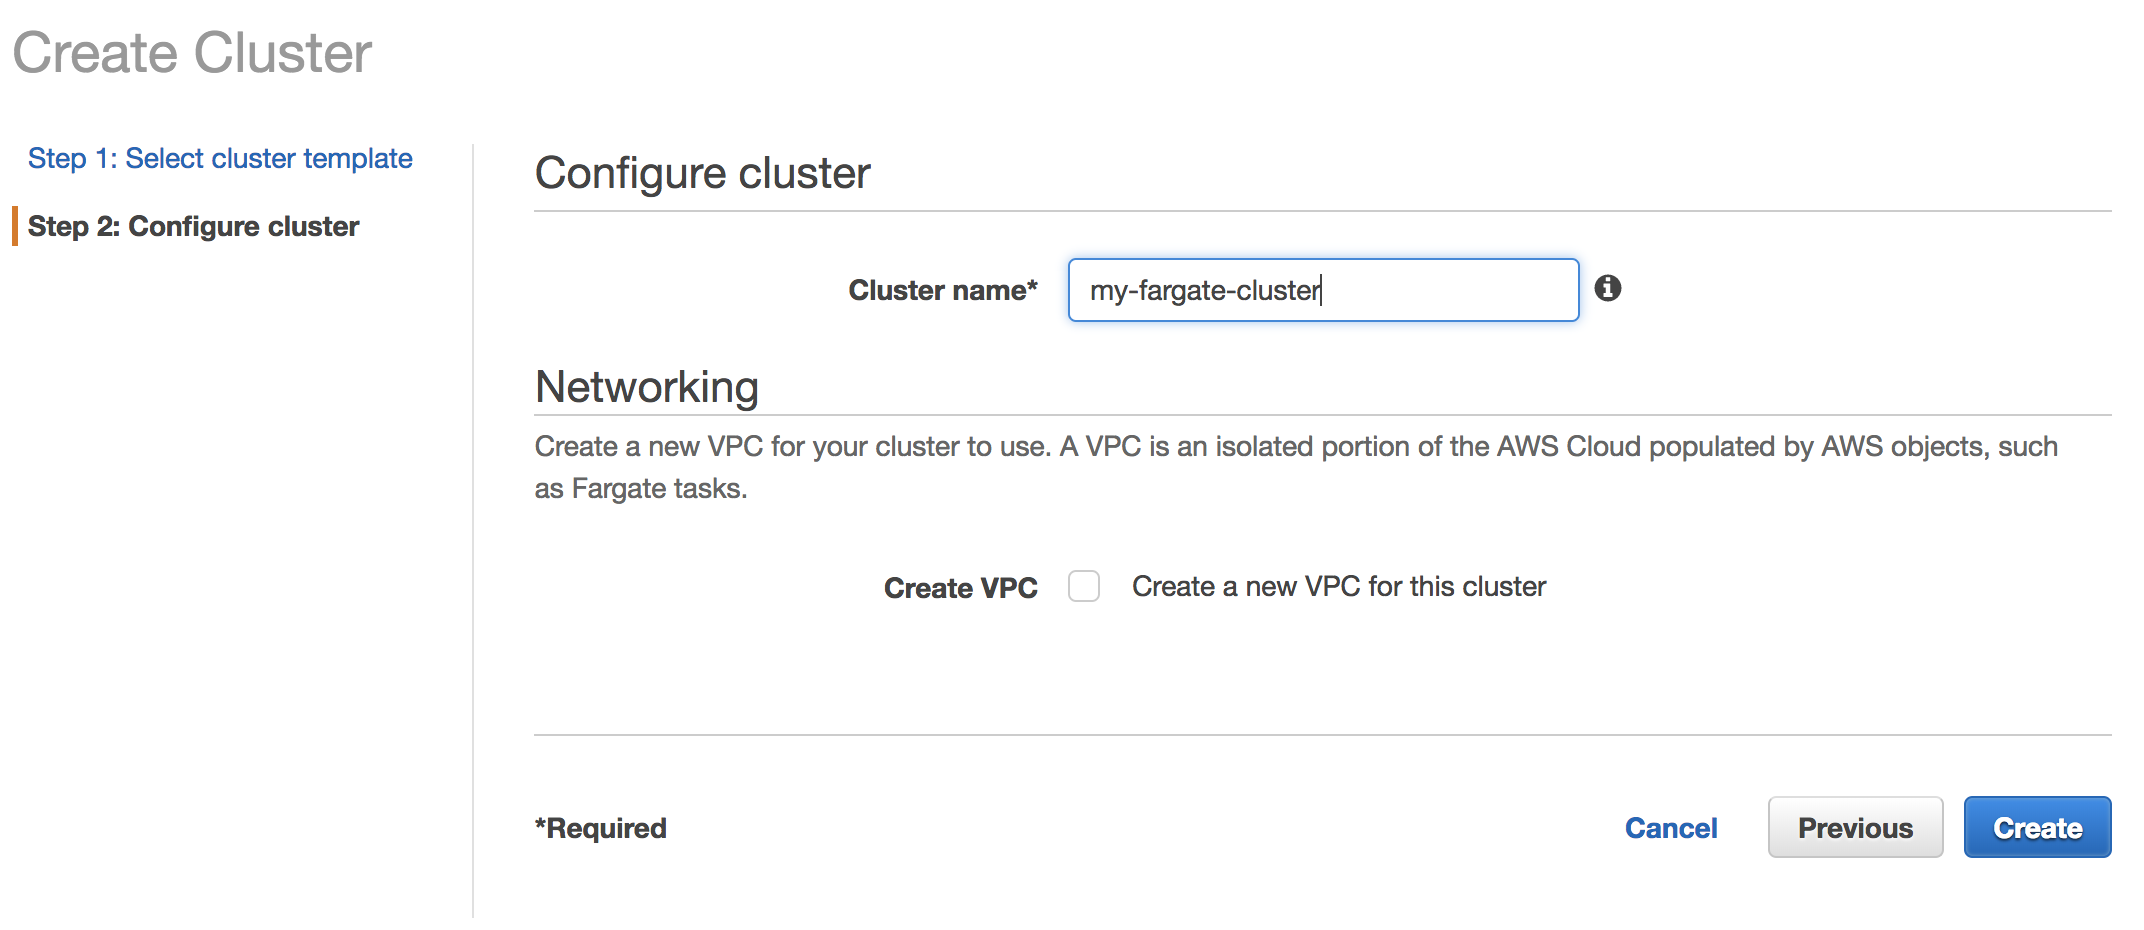
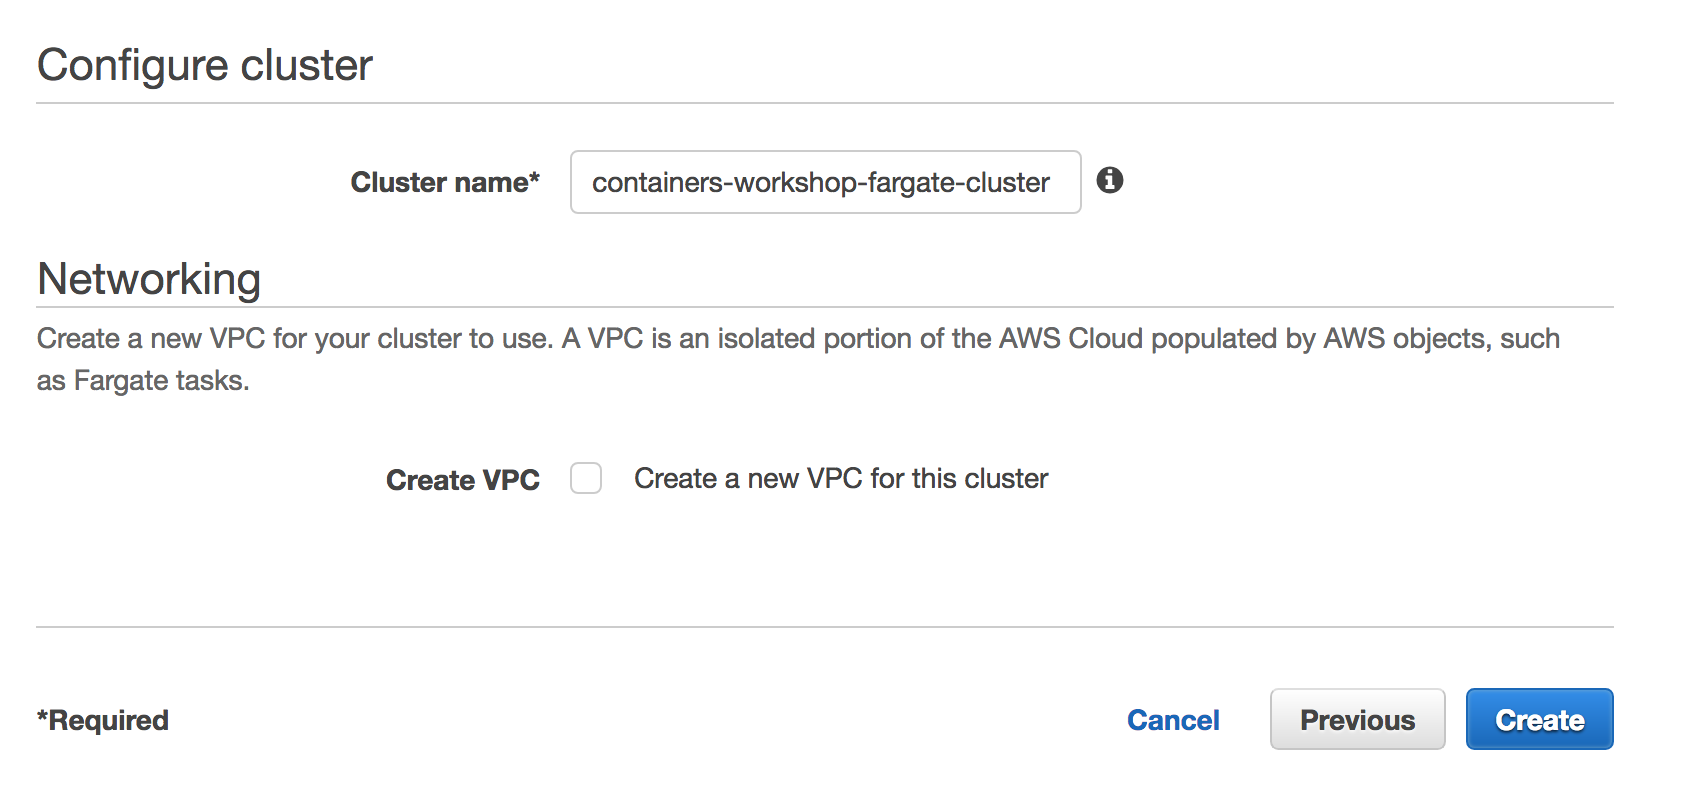
Adding fargate tutorial with new application

diff --git a/05-DeployFargate/README.md b/05-DeployFargate/README.md
@@ -1,23 +1,23 @@
 # Deploying an application with AWS Fargate
 
-![aws fargate logo](https://github.com/bemer/containers-on-aws-workshop/blob/master/05-DeployFargate/images/aws_fargate_logo.png)
+![aws fargate logo](/05-DeployFargate/images/aws_fargate_logo.png)
 
 
 **Quick jump:**
 
-* [1. Tutorial overview](https://github.com/bemer/containers-on-aws-workshop/tree/master/05-DeployFargate#1-tutorial-overview)
-* [2. Creating the Cluster](https://github.com/bemer/containers-on-aws-workshop/tree/master/05-DeployFargate#2-creating-the-cluster)
-* [3. Creating the Task Definition](https://github.com/bemer/containers-on-aws-workshop/tree/master/05-DeployFargate#3-creating-the-task-definition)
-* [4. Deploying the application](https://github.com/bemer/containers-on-aws-workshop/tree/master/05-DeployFargate#4-deploying-the-application)
-* [5. Accessing the application](https://github.com/bemer/containers-on-aws-workshop/tree/master/05-DeployFargate#5-accessing-the-application)
-* [6. Conclusion](https://github.com/bemer/containers-on-aws-workshop/tree/master/05-DeployFargate#6-conclusion)
+* [1. Tutorial overview](/05-DeployFargate#1-tutorial-overview)
+* [2. Creating the Cluster](/05-DeployFargate#2-creating-the-cluster)
+* [3. Creating the Task Definition](/05-DeployFargate#3-creating-the-task-definition)
+* [4. Deploying the application](/05-DeployFargate#4-deploying-the-application)
+* [5. Accessing the application](/05-DeployFargate#5-accessing-the-application)
+* [6. Conclusion](/05-DeployFargate#6-conclusion)
 
 
 ## 1. Tutorial overview
 
 This tutorial will walk you through a web application deployment using AWS Fargate. This is the same application that we used for the ECS Cluster with EC2. This means that we won't need to create and build another Docker image. We will also use the same image and ECR respoitory.
 
-After concluding this tutorial, you will have a serverless application running in AWS Fargate.
+After concluding this tutorial, you will have an application running in AWS Fargate.
 
 ## 2. Creating the Cluster
 
@@ -27,29 +27,29 @@ Let's create a new cluster to deploy our containers. In your AWS account Managem
 
 Click in **Create cluster** and in the following screen select the **Networking only** cluster template. Click in **Next step**:
 
-![cluster template](https://github.com/bemer/containers-on-aws-workshop/blob/master/05-DeployFargate/images/cluster_template.png)
+![cluster template](/05-DeployFargate/images/cluster_template.png)
 
-For the *Cluster name* type a name for your cluster and click in **Create**:
+For the **luster name** use `containers-workshop-fargate-cluster` and click in **Create**:
 
-![cluster configuration](https://github.com/bemer/containers-on-aws-workshop/blob/master/05-DeployFargate/images/cluster_configuration.png)
+![cluster configuration](/05-DeployFargate/images/cluster_configuration.png)
 
 ## 3. Creating the Task Definition
 
-To create a Task Definition, at the left side of the ECS Console menu, click in **Task Definitions**. Clinck in **Create new Task Definition**. Select `FARGATE` as the *Launch type compatibility* and click in **Next steps**:
+To create a Task Definition, at the left side of the ECS Console menu, click in **Task Definitions**. Click in **Create new Task Definition**. Select `FARGATE` as the **Launch type compatibility** and click in **Next steps**:
 
-![type compatibility](https://github.com/bemer/containers-on-aws-workshop/blob/master/05-DeployFargate/images/task_compatibility.png)
+![type compatibility](/05-DeployFargate/images/task_compatibility.png)
 
-For *Task Definition Name* type a name for your task. For *Task Role* choose `None`.
+In the **Task Definition Name** type `containers-workshop-fargate-task-def`. For *Task Role* choose `None`.
 
-![task configuration](https://github.com/bemer/containers-on-aws-workshop/blob/master/05-DeployFargate/images/task_configuration.png)
+![task configuration](/05-DeployFargate/images/task_configuration.png)
 
-For *Task execution role* choose `ecsTaskEcecutionRole`, if that role is not listed, choose `Create new role`. For *Task memory (GB)* select `0.5GB`. For *Task CPU (vCPU)* select `0.25 vCPU`. Click in **Add container**:
+Under **Task execution role** choose `ecsTaskEcecutionRole`, if that role is not listed, choose `Create new role`. And select `0.5GB` under **Task memory (GB)**. For **Task CPU (vCPU)** select `0.25 vCPU`. Click in **Add container**:
 
-![task size](https://github.com/bemer/containers-on-aws-workshop/blob/master/05-DeployFargate/images/task_size.png)
+![task size](/05-DeployFargate/images/task_size.png)
 
-For *Container name* type a name like `python-fargate`. For *Image* copy and paste the same ECR URL used in the previous tutorials. For *Port mappings* type `3000` and leave `tcp` as the protocol. Click in **Add**: 
+For **Container name** type the name `containers-workshop-app`. And add the same ECR URL using in the previous modules of this workshop in the **Image** field. Under **Port mappings** type `80` and leave `tcp` as the protocol. Click in **Add**:
 
-![task container](https://github.com/bemer/containers-on-aws-workshop/blob/master/05-DeployFargate/images/fargate_container.png)
+![task container](/05-DeployFargate/images/fargate_container.png)
 
 Click in **Create**.
 
@@ -57,43 +57,31 @@ Click in **Create**.
 
 Now that we have our task definition, let's create a task itself to see our container running with no servers to manage.
 
-Go back to the ECS Console and select the cluster that you created for this tutorial. Click on the *Task* tab and then click in **Run new task**
+Go back to the ECS Console and select the cluster that you created for this tutorial. Click on the **Task** tab and then click in **Run new task**
 
-![run task](https://github.com/bemer/containers-on-aws-workshop/blob/master/05-DeployFargate/images/run_new_task.png)
+![run task](/05-DeployFargate/images/run_new_task.png)
 
-In the **Run Task** screen, for *Launch type* select `FARGATE`. For *Task Definition* select the Task Definition that you created in the previous step. For *Cluster* select the cluster that you created for this tutorial:
+In the **Run Task** screen, for **Launch type** select `FARGATE`. For **Task Definition** select the Task Definition that you created in the previous step. For **Cluster** select the cluster `containers-workshop-fargate-cluster`:
 
-![run task configuration](https://github.com/bemer/containers-on-aws-workshop/blob/master/05-DeployFargate/images/run_new_task_conf.png)
+![run task configuration](/05-DeployFargate/images/run_new_task_conf.png)
 
-For *Cluster VPC* select the VPC that you created in the step 03-CreateVPC. For *Subnets* select a public subnet. If you have more than one public subnet, feel free to choose all of them. For *Auto-assign public IP* choose `ENABLED`. Click in **Run Task**.
+Under **Cluster VPC**, select the VPC `containers-workshop-vpc` and the both `containers-workshop-public-subnets` as your **Subnets**. Select `ENABLED` in the **Auto-assign public IP** option. After selecting everything, click in **Run Task**:
 
-![run task configuration VPC](https://github.com/bemer/containers-on-aws-workshop/blob/master/05-DeployFargate/images/run_new_task_conf_vpc.png)
+![run task configuration VPC](/05-DeployFargate/images/run_new_task_conf_vpc.png)
 
 ## 5. Accessing the application
 
-After running your task, go back to the ECS Console. Select the cluster and click on the Tasks tab. You'll see a task in the `PENDING` status. 
+After running your task, go back to the ECS Console. Select the cluster and click on the Tasks tab. You'll see a task in the `PENDING` status.
 
-![pending task](https://github.com/bemer/containers-on-aws-workshop/blob/master/05-DeployFargate/images/pending_task.png)
+![pending task](/05-DeployFargate/images/pending_task.png)
 
 A Fargate task can take around 30 seconds to a minute before changing its status to `RUNNING`. That's because, for each new task, an ENI is created in your VPC with an IP from the subnet you chose, and then, it's attached to the Fargate task.
 
-![running task](https://github.com/bemer/containers-on-aws-workshop/blob/master/05-DeployFargate/images/running_task.png)
+![running task](/05-DeployFargate/images/running_task.png)
 
-The last step to test our app is to change its Security Group. Click in the task that is currently running. In the Network section, find the **ENI Id** and click in the ENI. 
+To test your app, click in the Task and find the **Public IP**. Copy and paste it in your browser. The final URL should look like this: http://34.229.126.241
 
-![task eni](https://github.com/bemer/containers-on-aws-workshop/blob/master/05-DeployFargate/images/eni_fargate.png)
-
-In the Security Groups, click in the Security Group with a name `fargat-something`. 
-
-![SG fargate](https://github.com/bemer/containers-on-aws-workshop/blob/master/05-DeployFargate/images/sg_fargate.png)
-
-Click in the **Inbound** tab and click in **Edit**. First remove any rule that was already created by Fargate. Now we will add our rule. For **Type** select `Custom TCP Rule`. For **Port Range** type `3000`. For **Source** select `Anywhere`. Click in **Save**.
-
-![rules SG fargate](https://github.com/bemer/containers-on-aws-workshop/blob/master/05-DeployFargate/images/sg_rules_fargate.png)
-
-To test your app go back to the Task and find the **Public IP**. Copy and paste it in your browser adding `:3000/app` at the end of the URL. The final URL should look like this: http://34.232.64.118:3000/app
-
-![final Fargate](https://github.com/bemer/containers-on-aws-workshop/blob/master/05-DeployFargate/images/final_fargate.png)
+![final Fargate](/05-DeployFargate/images/final_fargate.png)
 
 ## 6. Conclusion
 
